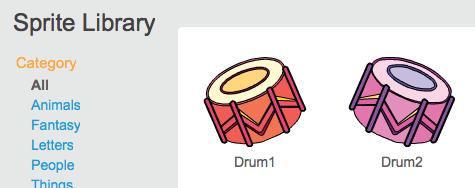
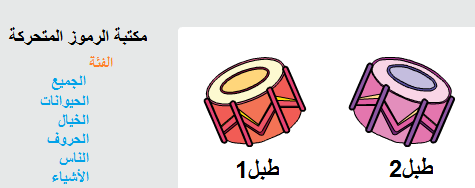
Update Arabic and add Welsh

diff --git a/ar-SA/step_1.md b/ar-SA/step_1.md
@@ -1,7 +1,7 @@
-+ انقر فوق __اختيار كائن من المكتبة__ لترى المكتبة التي تحتوي على جميع كائنات Scratch.
++ انقر فوق **اختيار كائن من المكتبة** لترى المكتبة التي تحتوي على جميع كائنات Scratch.
+    
+    ![لقطة الشاشة](images/sprite-library.png)
 
-	![screenshot](images/sprite-library.png)
-
-+ يمكنك تصفح الكائنات حسب الفئة أو النُسق أو النوع. انقر فوق كائن ثم انقر فوق __موافق__ لإضافته إلى مشروعك.
-
-	![screenshot](images/sprite-choose.png)
++ يمكنك تصفح الكائنات حسب الفئة أو النُسق أو النوع. انقر فوق الكائن ثم انقر فوق **موافق** لإضافته إلى مشروعك.
+    
+    ![لقطة الشاشة](images/sprite-choose.png)

diff --git a/cy-GB/step_1.md b/cy-GB/step_1.md
@@ -1,0 +1,7 @@
++ Cliciwch **Dewis ciplun o'r rhestr** i weld y llyfrgell o bob ciplun Scratch.
+    
+    ![sgrinlun](images/sprite-library.png)
+
++ Gallwch bori drwy'r cipluniau yn ôl categori, thema, neu fath. Cliciwch ar giplun a chliciwch **Iawn** i'w ychwanegu i eich prosiect.
+    
+    ![sgrinlun](images/sprite-choose.png)
